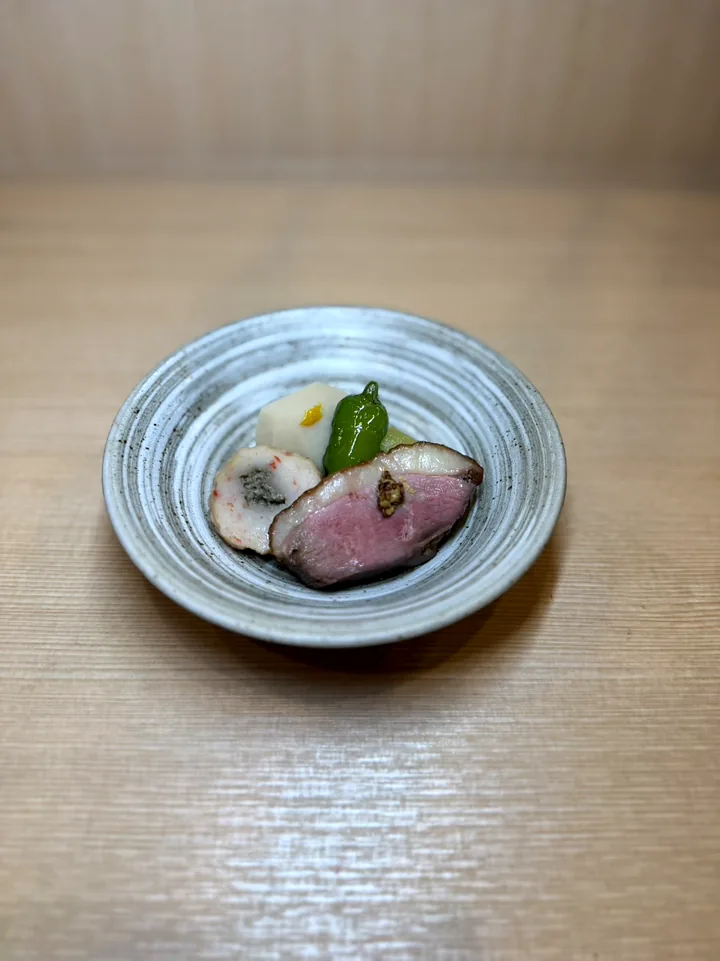
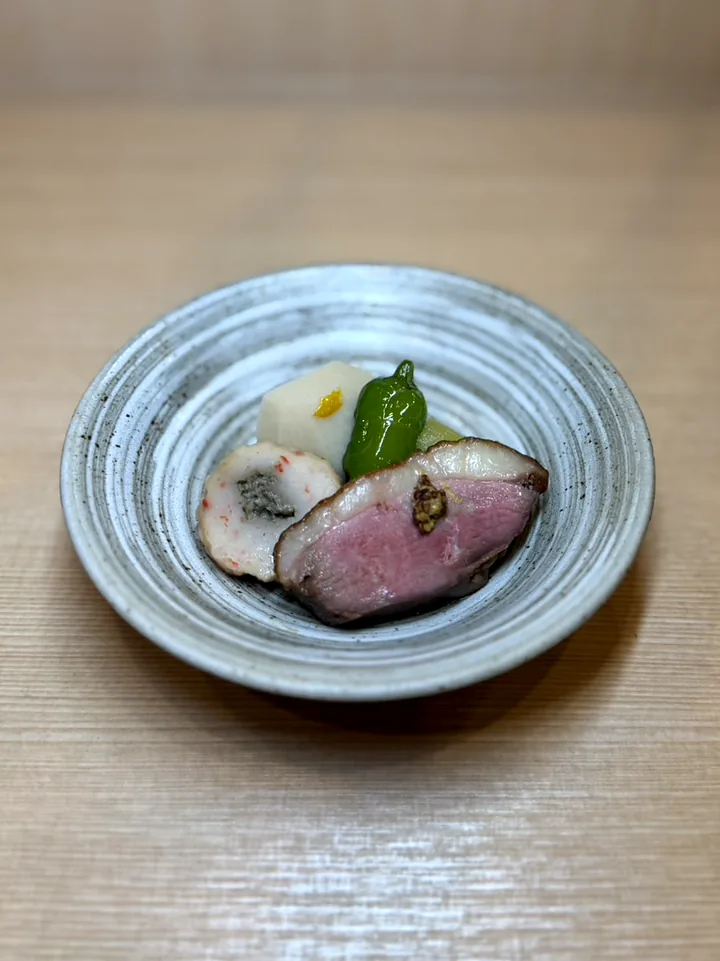
Appetizer carousel: drop duplicate gold bowl photo; align dish position/size across photos

diff --git a/lib/siteConfig.js b/lib/siteConfig.js
@@ -107,7 +107,6 @@ export const IMAGES = {
       "/images/intro/intro-02",
       "/images/intro/intro-02-b",
       "/images/intro/intro-02-c",
-      "/images/intro/intro-02-d",
       "/images/intro/intro-02-f",
       "/images/intro/intro-02-e",
     ],

diff --git a/scripts/process-photos.py b/scripts/process-photos.py
@@ -26,13 +26,18 @@ def enhance(im, b=1.06, c=1.06, s=1.10):
     return im.filter(ImageFilter.UnsharpMask(radius=1.2, percent=40, threshold=3))
 
 
-def crop_ratio(im, ratio, cx=0.5, cy=0.5):
+# 切り替え写真は、器の中心と大きさをそろえて、切り替えたときに目線が動かないようにする（拡大率）
+ZOOM = {"intro/intro-02": 1.04, "intro/intro-02-c": 1.28, "intro/intro-02-e": 1.25}
+
+
+def crop_ratio(im, ratio, cx=0.5, cy=0.5, zoom=1.0):
     """ratio=幅/高さ。(cx,cy)=切り抜き中心の相対位置"""
     w, h = im.size
     if w / h > ratio:
         nw, nh = int(h * ratio), h
     else:
         nw, nh = w, int(w / ratio)
+    nw, nh = int(nw / zoom), int(nh / zoom)
     x = min(max(int(cx * w - nw / 2), 0), w - nw)
     y = min(max(int(cy * h - nh / 2), 0), h - nh)
     return im.crop((x, y, x + nw, y + nh))
@@ -49,13 +54,12 @@ def save(im, path, width, q=82):
 # (出力ベース, 元写真, 縦横比, 切り抜き中心x, y, 書き出し幅[最初が本体])
 JOBS = [
     ("hero/home-hero", "85696721", 3 / 2, 0.5, 0.55, [1024, 640]),  # 全体の盛り合わせ
-    # 四季の前菜の切り替え写真。縦長(3:4)のまま、器の全体が見えるように切り抜かない
-    ("intro/intro-02", "85696537", 3 / 4, 0.5, 0.5, [720, 480]),    # 籠盛り（斜めからで立体感）
+    # 四季の前菜の切り替え写真。縦長(3:4)で器の全体が見えるようにし、器の中心・大きさをそろえる
+    ("intro/intro-02", "85696537", 3 / 4, 0.52, 0.54, [720, 480]),    # 籠盛り（斜めからで立体感）
     ("intro/intro-02-b", "85688393", 3 / 4, 0.5, 0.5, [720, 480]),  # 水色の角皿
-    ("intro/intro-02-c", "85688401", 3 / 4, 0.5, 0.5, [720, 480]),  # 灰色の丸皿
-    ("intro/intro-02-d", "85688381", 3 / 4, 0.5, 0.5, [720, 480]),  # 金色の三日月の器（全体）
+    ("intro/intro-02-c", "85688401", 3 / 4, 0.467, 0.495, [720, 480]),  # 灰色の丸皿
     ("intro/intro-02-f", "85688378", 3 / 4, 0.5, 0.5, [720, 480]),  # 金色の三日月の器（斜めに寄った写真）
-    ("intro/intro-02-e", "85696563", 3 / 4, 0.5, 0.5, [720, 480]),  # 花形の小鉢
+    ("intro/intro-02-e", "85696563", 3 / 4, 0.458, 0.50, [720, 480]),  # 花形の小鉢
     ("intro/intro-03", "85696617", 4 / 3, 0.5, 0.52, [870, 640]),   # 握り
     ("band/strip-01", "85688384", 2.4, 0.5, 0.52, [1000, 640]),  # 横長の帯（おつまみ三種）
 ]
@@ -100,7 +104,7 @@ def sushi_square(im, fill=0.86, target_luma=150):
 
 if __name__ == "__main__":
     for base, num, ratio, cx, cy, widths in JOBS:
-        im = enhance(crop_ratio(load(num), ratio, cx, cy))
+        im = enhance(crop_ratio(load(num), ratio, cx, cy, ZOOM.get(base, 1.0)))
         save(im, f"{base}.webp", widths[0])
         for w in widths:
             save(im, f"{base}-{w}.webp", w)
